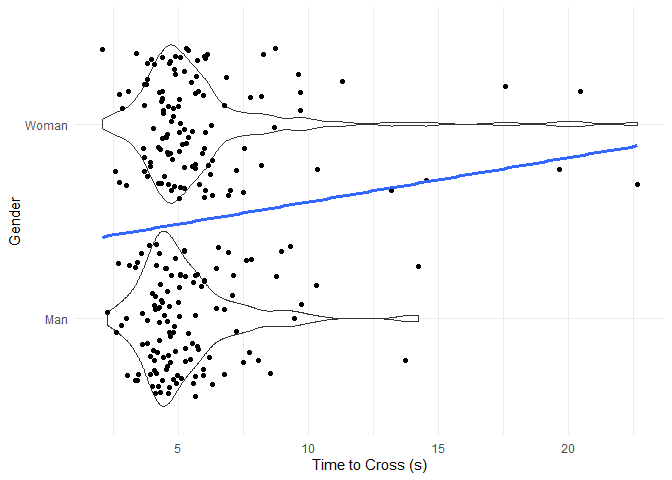
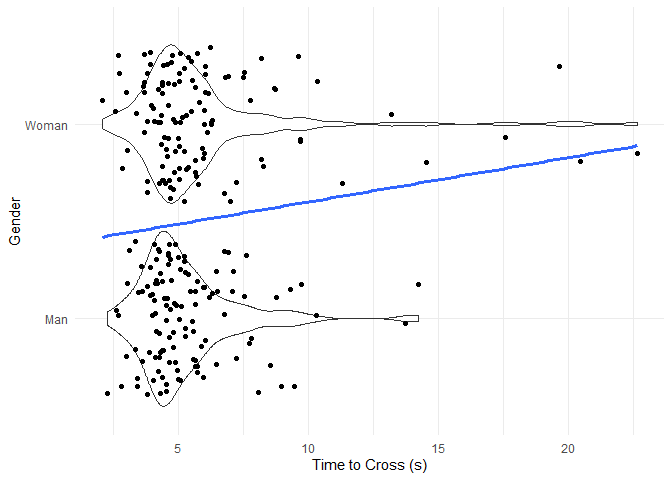
Commit from RStudio

diff --git a/racial_bias_analysis.md b/racial_bias_analysis.md
@@ -769,7 +769,7 @@ as_gt(table1) %>%
 ```
 
 ```
-## file:///C:/Users/KADEGA~1/AppData/Local/Temp/Rtmp6J9woT/file1ff8123e2656.html screenshot completed
+## file:///C:/Users/KADEGA~1/AppData/Local/Temp/RtmpoLt7fX/file26686b675e66.html screenshot completed
 ```
 
 # 6. Mean number of cars before yield
@@ -1251,7 +1251,7 @@ as_gt(table2) %>%
 ```
 
 ```
-## file:///C:/Users/KADEGA~1/AppData/Local/Temp/Rtmp6J9woT/file1ff8585937dc.html screenshot completed
+## file:///C:/Users/KADEGA~1/AppData/Local/Temp/RtmpoLt7fX/file26686e0f6561.html screenshot completed
 ```
 
 # 7. Mean time to enter intersection
@@ -1685,7 +1685,7 @@ tbl12 <- tbl_regression(
     ))
 ```
 
-# 7c3. Table 3 - Mean number of cars before yield combined models table
+# 7c3. Table 3 - Mean time before entering intersection combined models table
 
 ``` r
 table3 <- tbl_merge(
@@ -1732,7 +1732,7 @@ as_gt(table3) %>%
 ```
 
 ```
-## file:///C:/Users/KADEGA~1/AppData/Local/Temp/Rtmp6J9woT/file1ff8495c5f8c.html screenshot completed
+## file:///C:/Users/KADEGA~1/AppData/Local/Temp/RtmpoLt7fX/file266822583acb.html screenshot completed
 ```
 
 # 8. Car proceed through intersection
@@ -2333,7 +2333,7 @@ as_gt(table4) %>%
 ```
 
 ```
-## file:///C:/Users/KADEGA~1/AppData/Local/Temp/Rtmp6J9woT/file1ff8291938f4.html screenshot completed
+## file:///C:/Users/KADEGA~1/AppData/Local/Temp/RtmpoLt7fX/file26683ef35626.html screenshot completed
 ```
 
 # 9. Cars stop close or far 
@@ -2896,7 +2896,7 @@ tbl20 <- tbl_regression(
     ))
 ```
 
-# 9c3. Table 4 - Car Proceed combined models table
+# 9c3. Table 5 - Car yield close//far combined models table
 
 ``` r
 table5 <- tbl_merge(
@@ -2941,7 +2941,7 @@ as_gt(table5) %>%
 ```
 
 ```
-## file:///C:/Users/KADEGA~1/AppData/Local/Temp/Rtmp6J9woT/file1ff81c0f7db2.html screenshot completed
+## file:///C:/Users/KADEGA~1/AppData/Local/Temp/RtmpoLt7fX/file266840651b21.html screenshot completed
 ```
 
 # 10. Histograms

diff --git a/README.md b/README.md
@@ -1,2 +1,9 @@
 # racial_bias
 Repository for racial bias analysis code
+
+# Tables
+Table 1 - First Car Yield
+Table 2 - Mean Number of Cars Pass before Yield
+Table 3 - Mean Time before Entering Intersection
+Table 4 - Car Proceeded before Pedestrian Fully Crossed
+Table 5 - Car Yielded Close or Far from Intersection